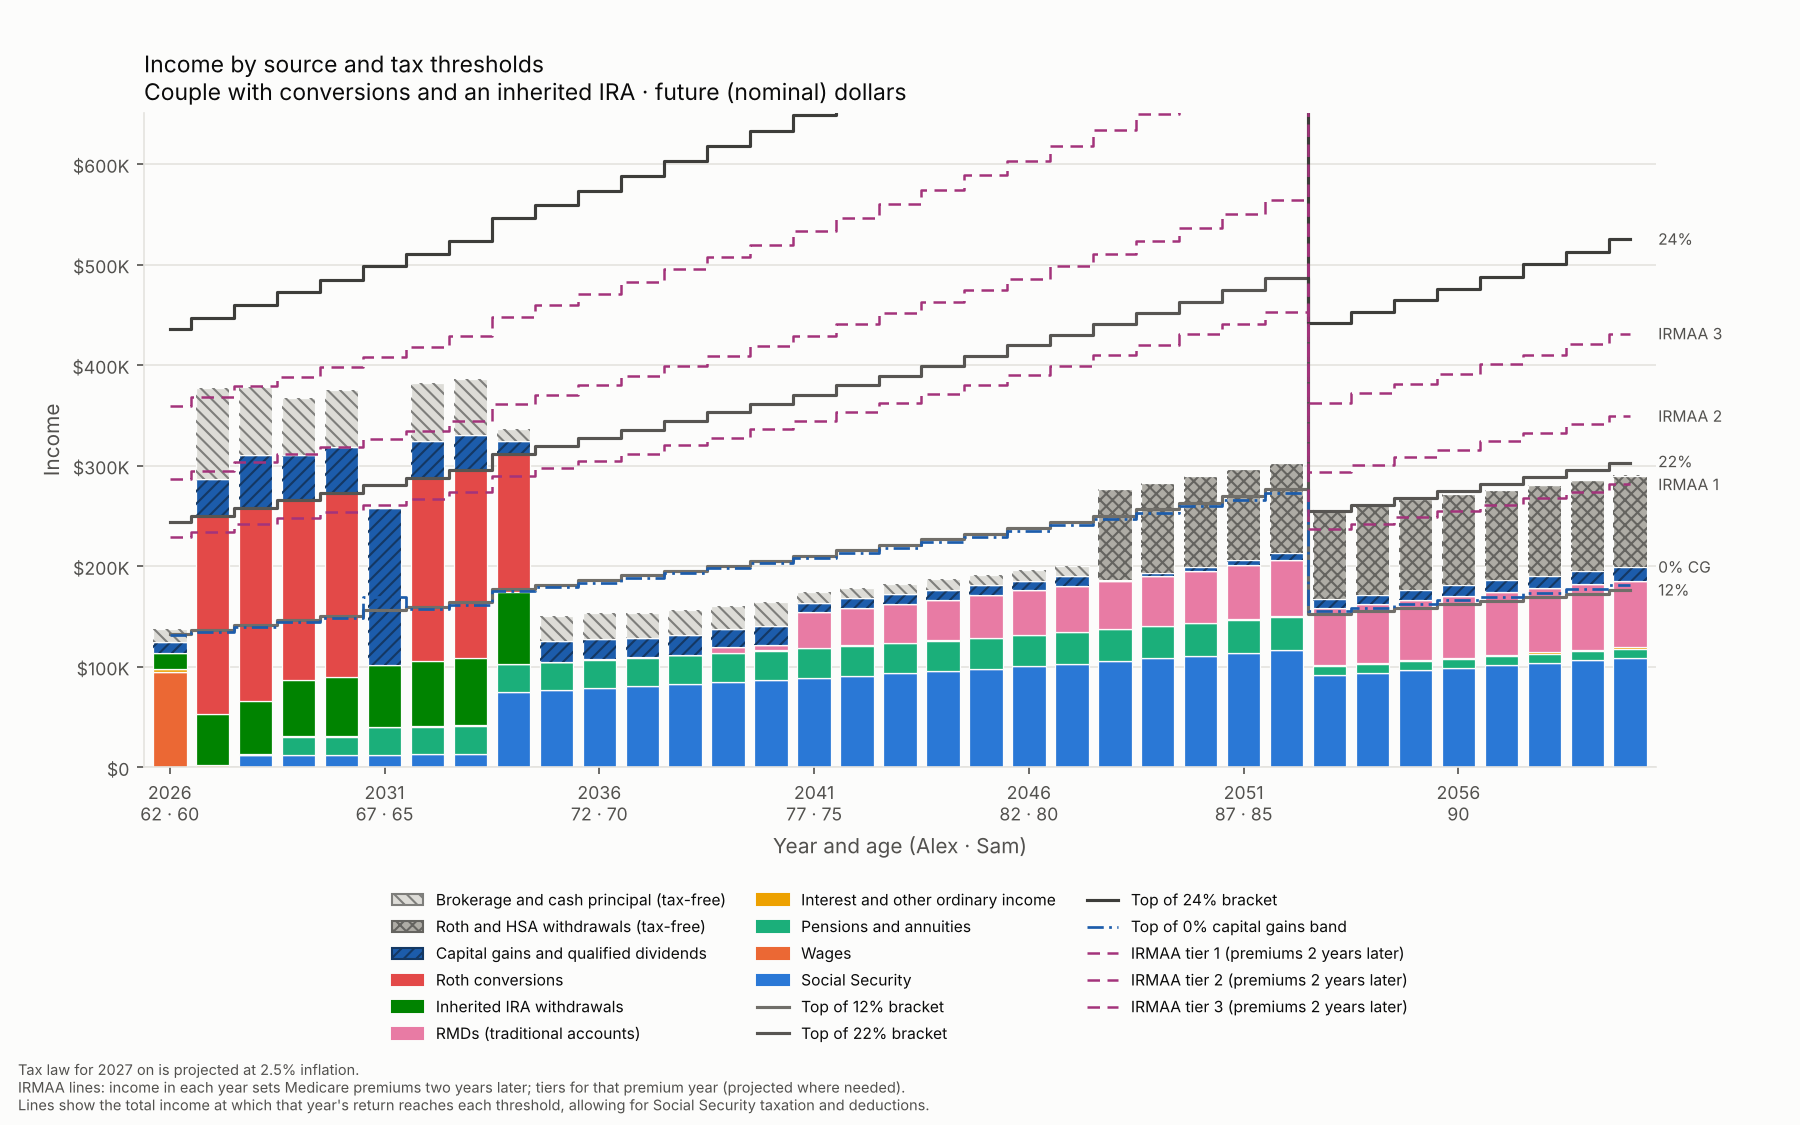
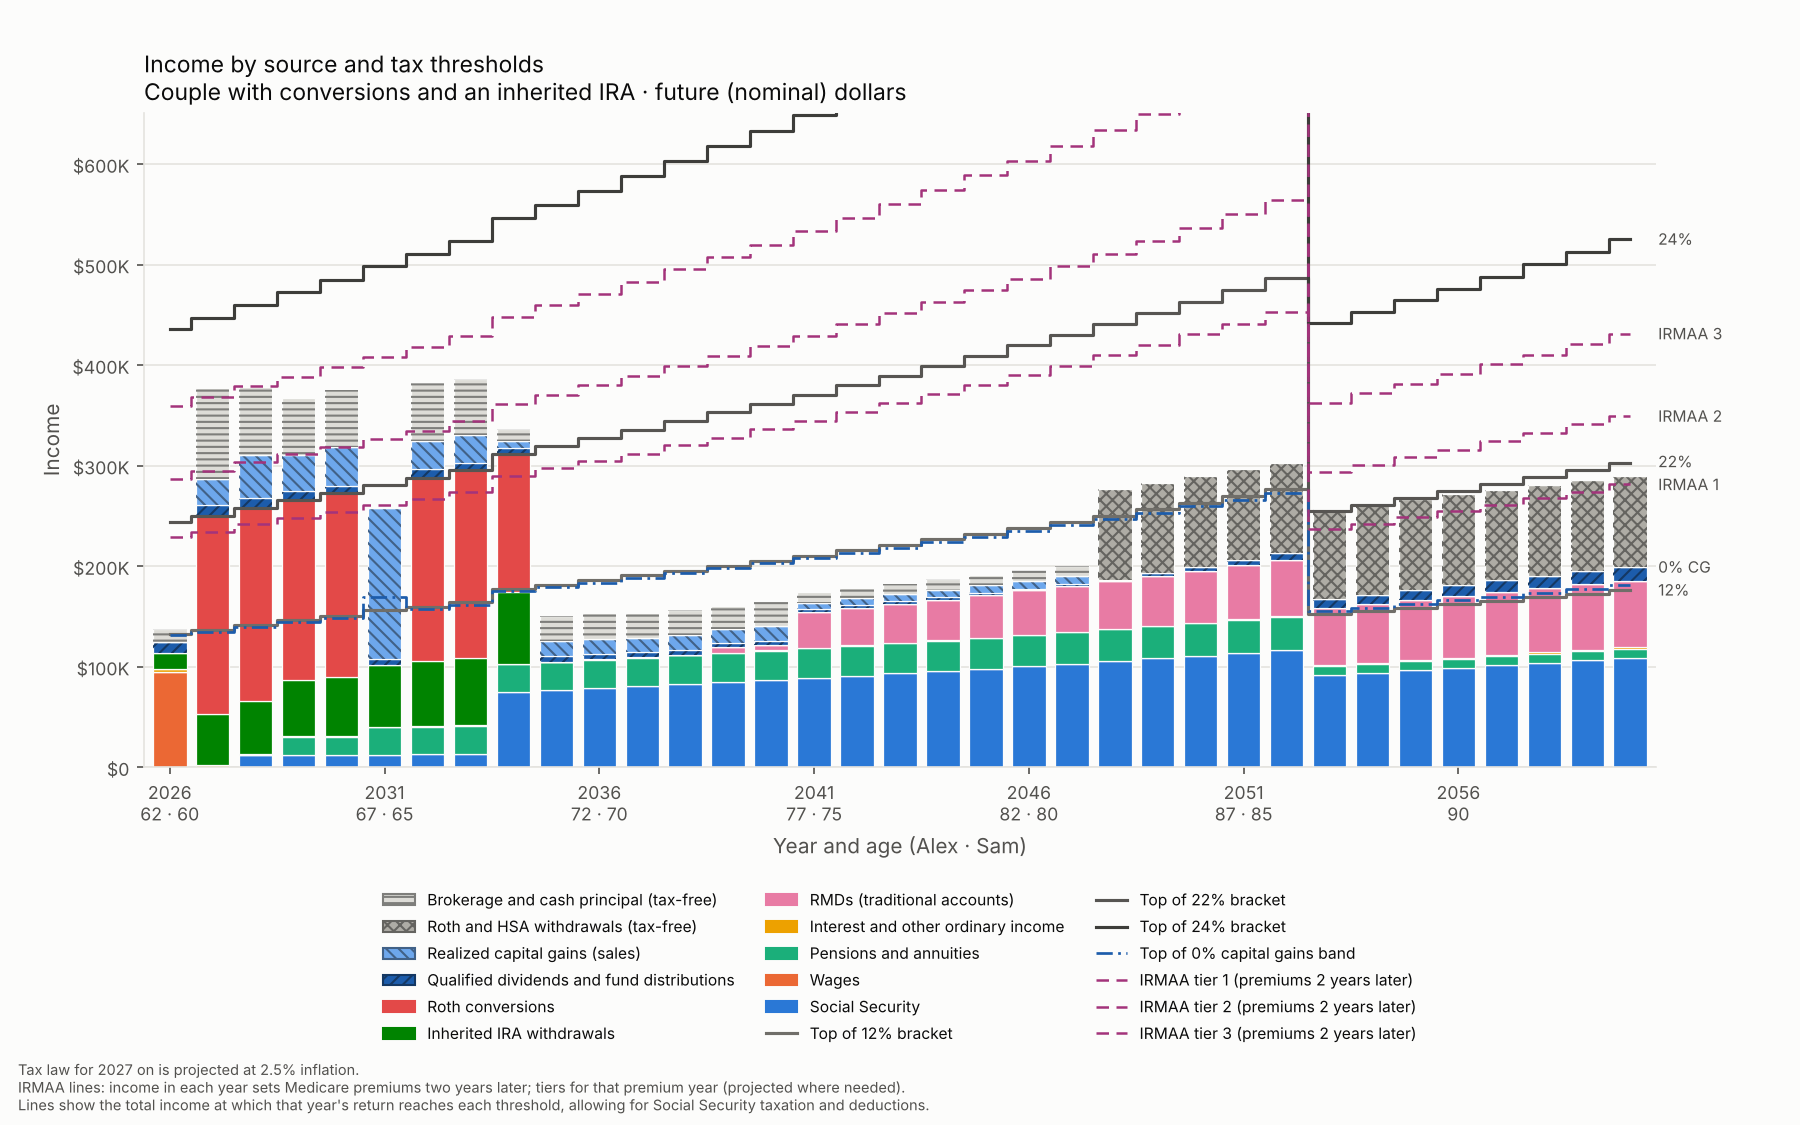
Split qualified dividends and fund distributions from realized gains
Distributions arrive whether or not you want them; realized gains come
from sales you choose (or that cover a shortfall) and one-off gains, so
the graph now shows them as separate segments.

Claude-Session: https://claude.ai/code/session_01FJ26b81PvZe834xhinqozU

diff --git a/src/rtpl/engine/forward.py b/src/rtpl/engine/forward.py
@@ -49,12 +49,17 @@ CATEGORIES = (
     "inherited",
     "ira_withdrawal",
     "roth_conversion",
-    "cg_qd",
+    "dividends",
+    "realized_gains",
     "tax_exempt",
     "roth_withdrawal",
     "principal",
 )
 TAX_FREE = ("tax_exempt", "roth_withdrawal", "principal")
+# Taxed at capital gains rates, stacked above ordinary income. Dividends and
+# fund distributions come whether you want them or not; realized gains are
+# from sales you choose (or that pay for a shortfall) and one-off gains.
+PREFERENTIAL = ("dividends", "realized_gains")
 
 CATEGORY_LABELS = {
     "ss": "Social Security",
@@ -65,7 +70,8 @@ CATEGORY_LABELS = {
     "inherited": "Inherited IRA withdrawals",
     "ira_withdrawal": "Other IRA / 401(k) withdrawals",
     "roth_conversion": "Roth conversions",
-    "cg_qd": "Capital gains and qualified dividends",
+    "dividends": "Qualified dividends and fund distributions",
+    "realized_gains": "Realized capital gains (sales)",
     "tax_exempt": "Tax-exempt interest",
     "roth_withdrawal": "Roth and HSA withdrawals (tax-free)",
     "principal": "Brokerage and cash principal (tax-free)",
@@ -515,10 +521,10 @@ class PlanEngine:
                     sources.append(Source("other_ordinary", key, label, amt))
                 elif s.kind == "qualified_dividends":
                     y.add("qualified_div", owner, taxable)
-                    sources.append(Source("cg_qd", key, label, amt))
+                    sources.append(Source("dividends", key, label, amt))
                 elif s.kind == "ltcg":
                     y.add("ltcg", owner, taxable)
-                    sources.append(Source("cg_qd", key, label, amt))
+                    sources.append(Source("realized_gains", key, label, amt))
                 elif s.kind == "tax_exempt":
                     y.add("tax_exempt", owner, amt)
                     sources.append(Source("tax_exempt", key, label, amt))
@@ -544,9 +550,9 @@ class PlanEngine:
                 y.qualified_div += qd
                 y.ltcg += cgd
                 if interest:
-                    sources.append(Source("other_ordinary", f"yield:{a.id}", f"{labels[a.id]} interest", interest))
+                    sources.append(Source("other_ordinary", f"yield:{a.id}", f"{labels[a.id]} interest and non-qualified dividends", interest))
                 if qd + cgd:
-                    sources.append(Source("cg_qd", f"yield:{a.id}", f"{labels[a.id]} dividends and distributions", qd + cgd))
+                    sources.append(Source("dividends", f"yield:{a.id}", f"{labels[a.id]} dividends and distributions", qd + cgd))
                 reinvested[a.id] = interest + qd + cgd
             for a in accounts:
                 if a.kind == "cash" and bal[a.id] > 0:
@@ -601,7 +607,7 @@ class PlanEngine:
             for acct_id, amount, gain in sale_plan:
                 withdrawn[acct_id] += amount
                 if gain > 0:
-                    sources.append(Source("cg_qd", f"sale:{acct_id}", f"{labels[acct_id]} gains on sales", gain))
+                    sources.append(Source("realized_gains", f"sale:{acct_id}", f"{labels[acct_id]} gains on sales", gain))
                 if amount - gain > 0:
                     sources.append(Source("principal", f"sale:{acct_id}", f"{labels[acct_id]} principal", amount - gain))
             surplus = max(0.0, net) if net >= 0 else 0.0
@@ -720,7 +726,7 @@ class PlanEngine:
             withdrawn[acct.id] += amount
             y.ltcg += gain
             if gain:
-                sources.append(Source("cg_qd", f"withdrawal:{acct.id}", f"{labels[acct.id]} gains on sales", gain))
+                sources.append(Source("realized_gains", f"withdrawal:{acct.id}", f"{labels[acct.id]} gains on sales", gain))
             if amount - gain:
                 sources.append(Source("principal", f"withdrawal:{acct.id}", f"{labels[acct.id]} principal", amount - gain))
             return
@@ -775,12 +781,13 @@ class PlanEngine:
         fs = status_key(prof.filing_status)
         base = yr.taxable_bar
         ordinary_now = sum(
-            s.amount for s in yr.sources if s.category not in TAX_FREE and s.category not in ("cg_qd", "ss")
+            s.amount for s in yr.sources if s.category not in TAX_FREE and s.category not in PREFERENTIAL and s.category != "ss"
         )
         lo, hi = -ordinary_now - 1.0, 5_000_000.0
         out: dict[str, float] = {}
 
-        gains = yr.category_totals()["cg_qd"]
+        totals = yr.category_totals()
+        gains = sum(totals[c] for c in PREFERENTIAL)
 
         def line(key: str, label: str, metric, limit: float, ordinary_only: bool = False) -> None:
             # Ordinary bracket tops are read against the top of the ordinary
@@ -856,7 +863,7 @@ def default_line_visibility(result: PlanResult) -> dict[str, bool]:
             vis[k] = medicare and near(k, 1.05)
     vis["aca:4"] = result.plan.profile.household.aca_marketplace
     vis["deduction"] = False
-    vis["cg0"] = any(yr.category_totals()["cg_qd"] > 0 for yr in result.years)
+    vis["cg0"] = any(yr.category_totals()[c] > 0 for yr in result.years for c in PREFERENTIAL)
     vis["tax_free"] = True
     return vis
 

diff --git a/src/rtpl/charts/forward_chart.py b/src/rtpl/charts/forward_chart.py
@@ -17,7 +17,7 @@ from rtpl.theme import Palette
 from .marginal_chart import _escape, _money
 
 # Texture as a second cue beside color (gains and the tax-free segments).
-HATCH = {"cg_qd": "////", "tax_exempt": "....", "roth_withdrawal": "xxxx", "principal": "\\\\\\\\"}
+HATCH = {"dividends": "////", "realized_gains": "\\\\\\\\", "tax_exempt": "....", "roth_withdrawal": "xxxx", "principal": "----"}
 
 # Balances use the colors of the income they feed.
 ACCOUNT_COLOR_KEY = {
@@ -27,7 +27,7 @@ ACCOUNT_COLOR_KEY = {
     "roth_ira": "roth_conversion",
     "roth_401k": "roth_conversion",
     "hsa": "roth_withdrawal",
-    "taxable": "cg_qd",
+    "taxable": "dividends",
     "cash": "principal",
 }
 ACCOUNT_HATCH = {"401k": "....", "roth_401k": "....", "hsa": "xxxx", "taxable": "////", "cash": "\\\\\\\\"}

diff --git a/tests/test_forward.py b/tests/test_forward.py
@@ -189,8 +189,9 @@ def test_deficit_sells_brokerage_and_realizes_gains(lib):
     )
     y0 = run_plan(plan, lib, with_lines=False).years[0]
     ct = y0.category_totals()
-    assert ct["principal"] + ct["cg_qd"] == pytest.approx(60_000 + y0.tax.total_tax, abs=2)
-    assert ct["cg_qd"] == pytest.approx(ct["principal"], rel=1e-6)  # half the balance is gain
+    assert ct["principal"] + ct["realized_gains"] == pytest.approx(60_000 + y0.tax.total_tax, abs=2)
+    assert ct["realized_gains"] == pytest.approx(ct["principal"], rel=1e-6)
+    assert ct["dividends"] == 0  # no yields set on this account  # half the balance is gain
 
 
 def test_example_plan_runs_and_round_trips(lib, tmp_path):

diff --git a/docs/design.md b/docs/design.md
@@ -280,8 +280,10 @@ account, so an RMD counts toward it; conversions come on top of RMDs.
 **Income and brackets.** Bars are income by source, in this stack order:
 Social Security, wages, pensions and annuities (including foreign
 pensions), interest and other ordinary income, RMDs, inherited IRA
-withdrawals, other IRA withdrawals, Roth conversions, capital gains and
-qualified dividends, then tax-free money (tax-exempt interest, Roth and
+withdrawals, other IRA withdrawals, Roth conversions, qualified dividends
+and fund distributions (income a taxable account pays whether you want it
+or not), realized capital gains (sales you choose, sales that cover a
+shortfall, and one-off gains such as a property sale), then tax-free money (tax-exempt interest, Roth and
 HSA withdrawals, brokerage and cash principal) in light hatched grays that
 can be switched off.
 
